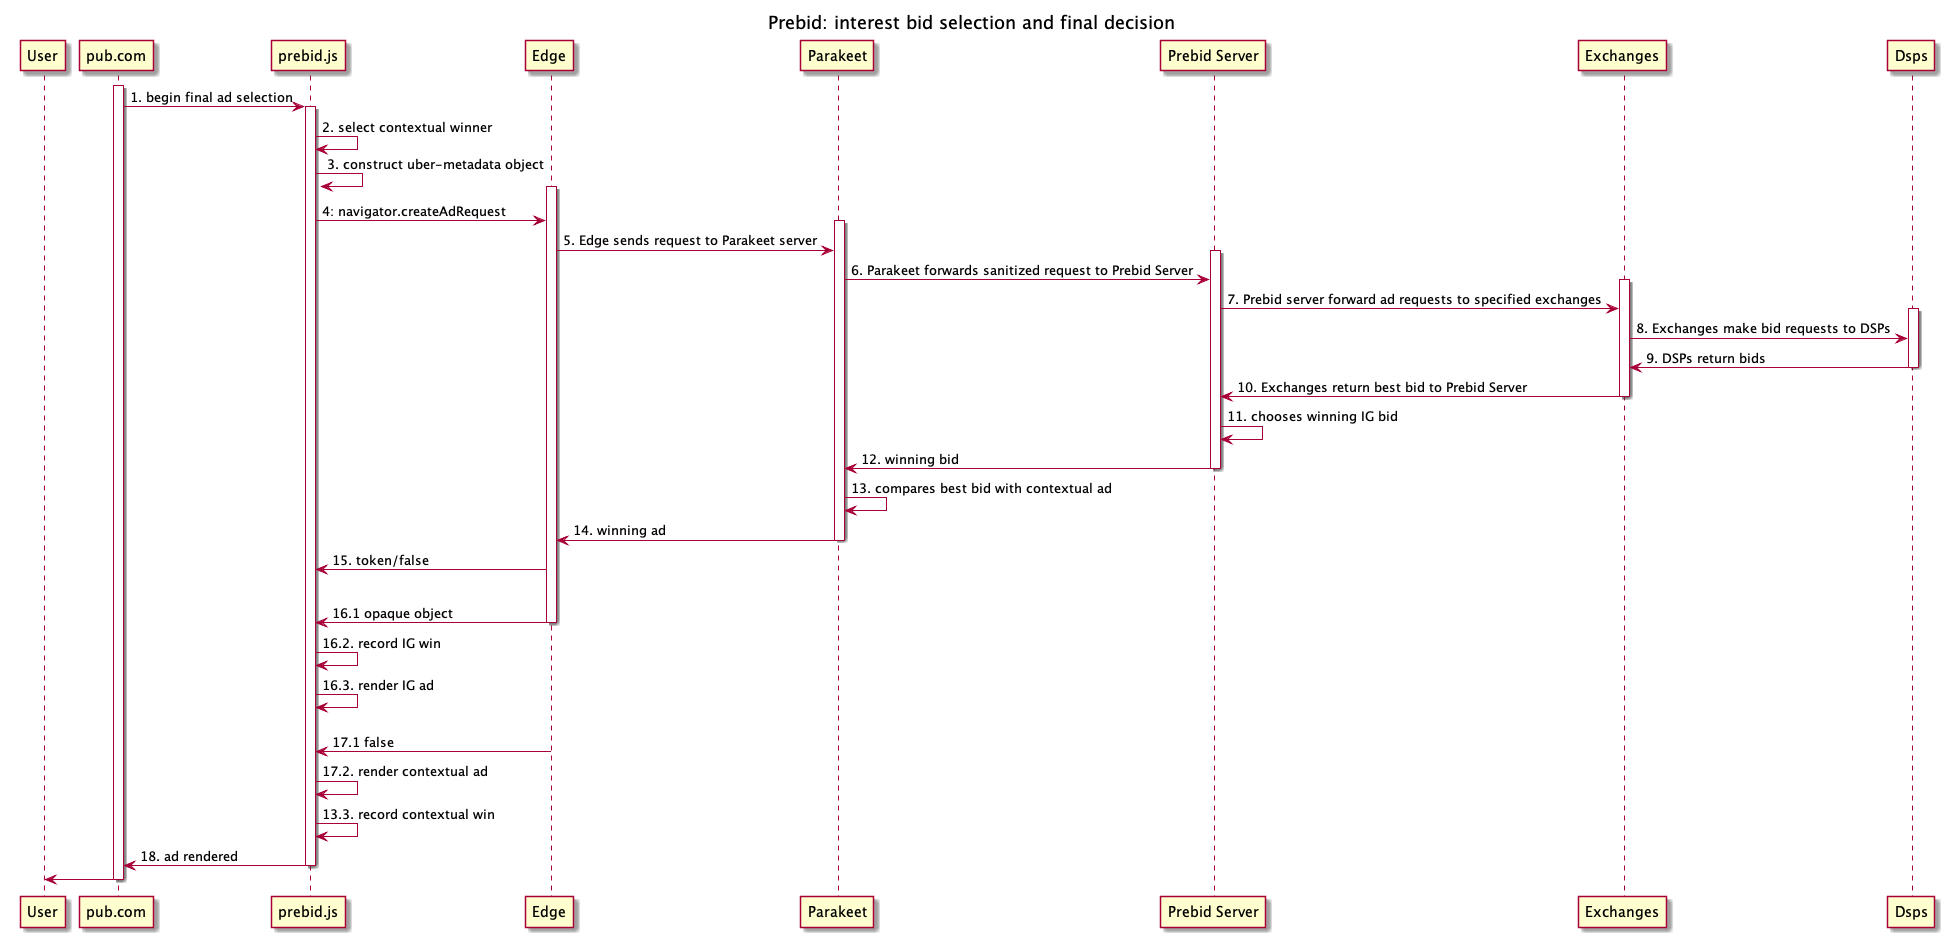
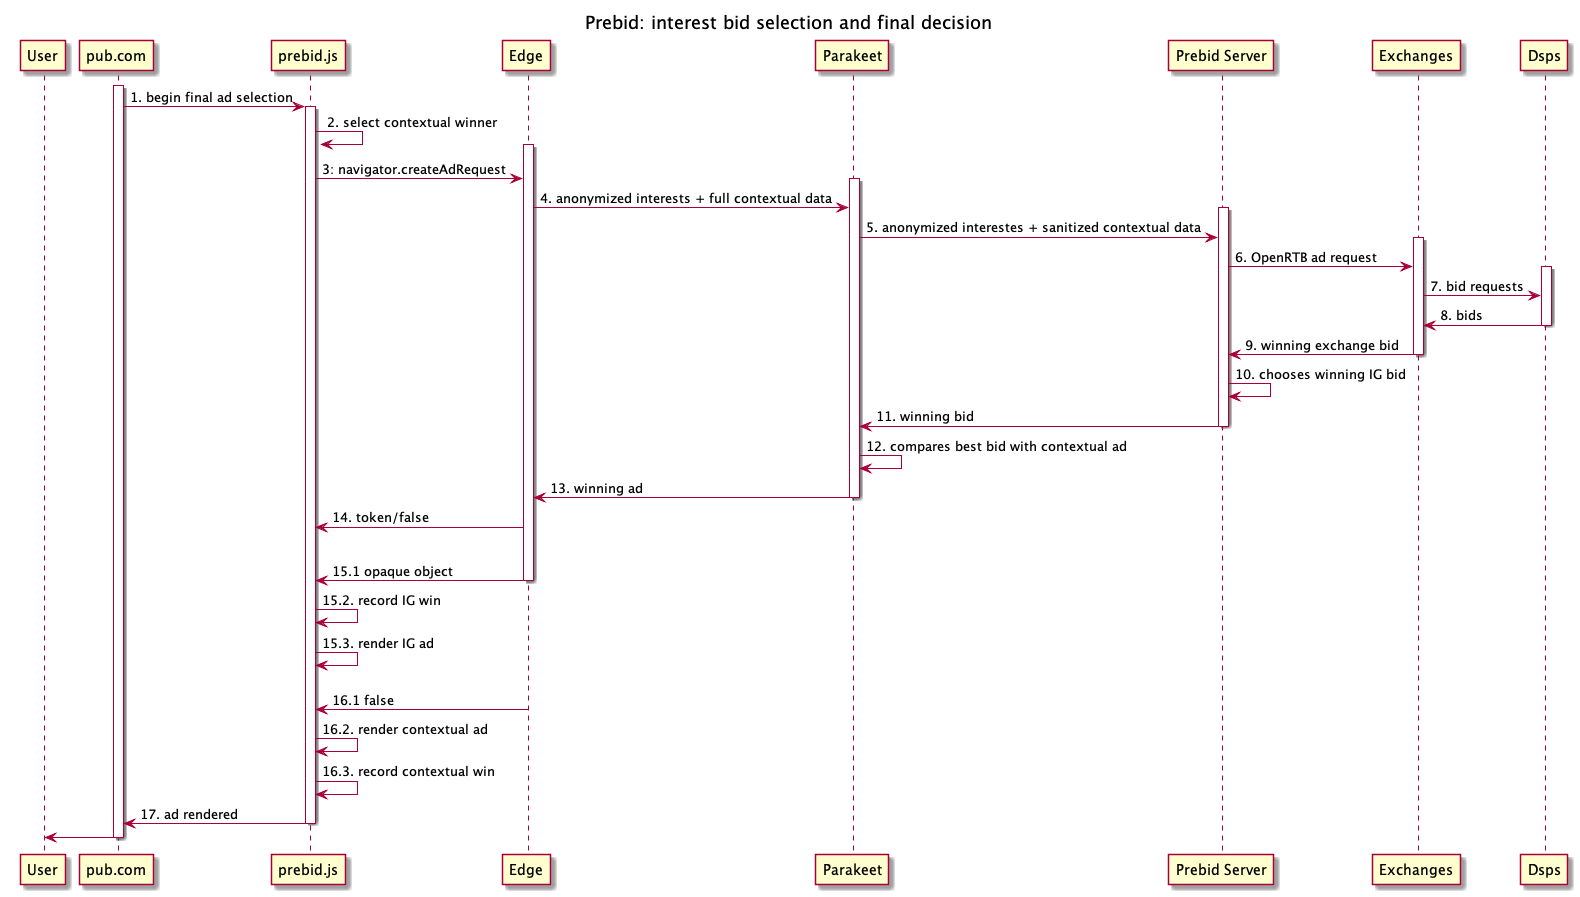
fix: cleaning up flow diagram

diff --git a/README.md b/README.md
@@ -112,7 +112,7 @@ For the contextual ad selection process, Prebid.js can continue to function in t
 
 ![Prebid.js Sequence Diagram](out/prebid_td_context/prebid_td_context.png)
 
-However, the browser will also contain user Interest Group memberships which could increase the value of the ad to a buyer. The Parakeet server will carefully select which IGs can be used in server side ad selection to ensure user privacy.
+However, the browser will also contain user interest group memberships which could increase the value of the ad to a buyer. The Parakeet server will carefully select which IGs can be used in server side ad selection to ensure user privacy.
 
 The Parakeet server will only make an ad request to a single ad tech partner for each ad slot. Therefore, publishers who wish to work with multiple SSPs will need to leverage a server to fan-out requests to each SSP and choose the most appropriate bid to compete with the ad server chosen contextual ad. Prebid server already performs a similar operation and could be extended to handle this responsibiliy.
 
@@ -143,30 +143,29 @@ Here's what that looks like in a flow diagram:
 
 1. Pub invokes final selection process in Prebid.js
 2. Prebid selects/looks up contextual winner
-3. Prebid constructs uber-metadata object (each SSP needs the contextual info and pub restrictions, etc)
-4. Prebid invokes ```navigator.createAdRequest``` with winning contextual bid as floor, maybe some other stuff
-5. Edge sends request to Parakeet server including anonymized ad interests, IP Addresss, User Agent, and contextual parameters
-6. Parakeet server further sanitizes the ad request and forwards to prebid server including anonymized versions of: ad interests, IP address, User Agent, and context
-7. Prebid server users context (likely a stored request ID) to look up publisher configuration and send ad requests to specified exchanges with all available info (as openRTB request)
-8. Exchanges make bid requests to DSPs including anonymized user/interest data
-9. DSPs return bids
-10. Exchanges run auction and return best bid to Prebid server
-11. Prebid server evaluates all bids and chooses a single bid to return to Parakeet
-12. Prebid server returns best bid to Parakeet
-13. Parakeet server compares best bid from prebid server with best contextual ad
-14. Parakeet server returns winning ad to Edge
-15. Edge returns opaque object for rendering if winner, or returns false (if context is winner)
-16. IG Bid Winner
+3. Prebid invokes ```navigator.createAdRequest``` with winning contextual bid as floor, maybe some other stuff
+4. Edge sends request to Parakeet server including anonymized ad interests, IP Addresss, User Agent, and contextual parameters
+5. Parakeet server further sanitizes the ad request and forwards to prebid server including anonymized versions of: ad interests, IP address, User Agent, and context
+6. Prebid server users context (likely a stored request ID) to look up publisher configuration and send ad requests to specified exchanges with all available info (as openRTB request)
+7. Exchanges make bid requests to DSPs including anonymized user/interest data
+8. DSPs return bids
+9. Exchanges run auction and return best bid to Prebid server
+10. Prebid server evaluates all bids and chooses a single bid to return to Parakeet
+11. Prebid server returns best bid to Parakeet
+12. Parakeet server compares best bid from prebid server with best contextual ad
+13. Parakeet server returns winning ad to Edge
+14. Edge returns opaque object for rendering if winner, or returns false (if context is winner)
+15. IG Bid Winner
     1. ```navigator.createAdRequest``` returns opaque object
     2. Prebid record IG win
     3. Prebid passes opaque object to a fenced frame for rendering
-17. Context Bid Winner
+16. Context Bid Winner
     1. ```navigator.createAdRequest``` returns false
     2. Prebid renders contextual ad
     3. Prebid records contextual win
-18. Ad has rendered
+17. Ad has rendered
 
-As can be seen in the sequence diagram above, the Parakeet API is invoked by Prebid which is also responsible for contstructing the arguments.
+As can be seen in the sequence diagram above, the Parakeet API is invoked by Prebid which is also responsible for constructing the arguments.
 
 <!--
 ## Auction Configuration
